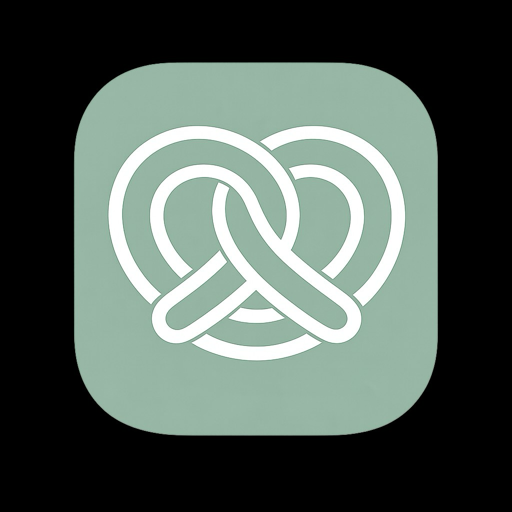
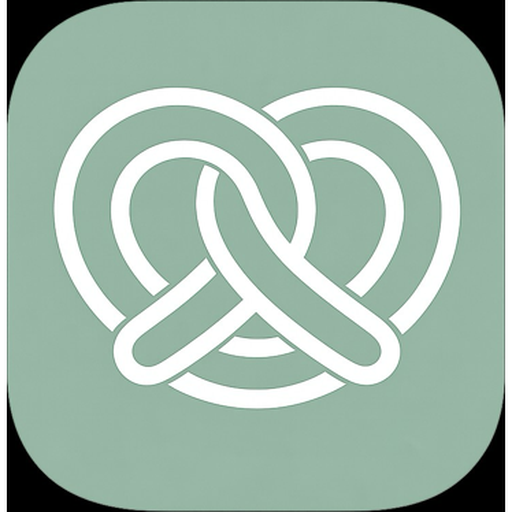
amélioration icone

diff --git a/src/components/layout/Sidebar.tsx b/src/components/layout/Sidebar.tsx
@@ -110,13 +110,13 @@ export function Sidebar({ collapsed, onToggle }: SidebarProps) {
         'flex items-center border-b border-slate-100 transition-all duration-300',
         collapsed ? 'justify-center px-0 py-5' : 'gap-3 px-4 py-5'
       )}>
-        <div className="w-8 h-8 rounded-lg overflow-hidden shadow-sm shrink-0">
+        <div className="w-10 h-10 rounded-xl overflow-hidden shadow-sm shrink-0 ring-1 ring-slate-200/80">
           <Image
             src="/icon-512.png"
             alt="Logo Bretzel"
-            width={32}
-            height={32}
-            className="w-8 h-8 object-cover"
+            width={40}
+            height={40}
+            className="h-full w-full object-cover"
             priority
           />
         </div>
